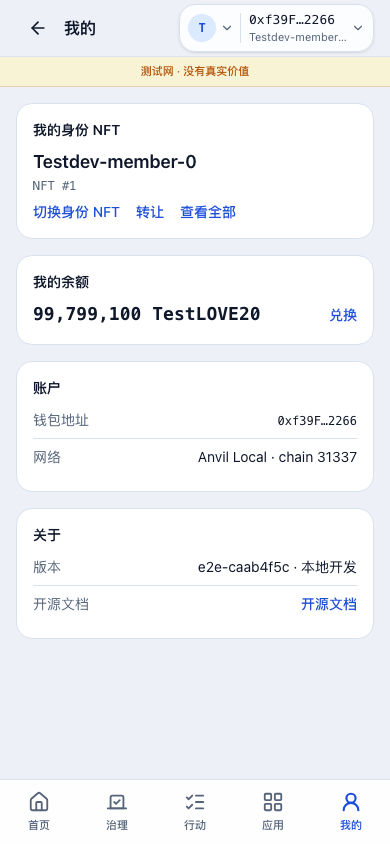
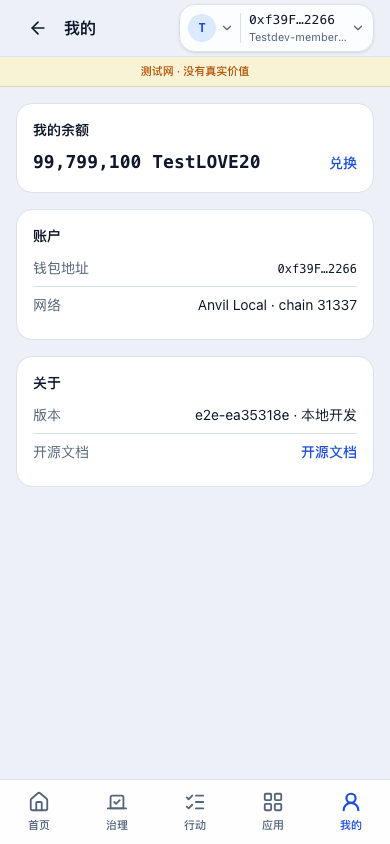
fix(me): 移除我的身份 NFT 卡片，页面只留余额/账户/关于

diff --git a/src/pages/me/me-page.tsx b/src/pages/me/me-page.tsx
@@ -8,7 +8,6 @@ import { formatBuildId, formatTokenAmount, shortenAddress } from '@/shared/lib/f
 import { variantLabel } from '@/shared/lib/variant-label';
 import { useCommunityBalance } from '@/entities/community-token/model/use-community-balance';
 import { useCommunityToken } from '@/entities/community-token/model/use-community-token';
-import { useMemberIdentity } from '@/entities/member-identity/model/use-member-identity';
 import { useWalletConnection } from '@/features/connect-wallet/model/use-wallet-connection';
 import { useCommunityContext } from '@/features/switch-community/model/use-community-context';
 
@@ -44,20 +43,19 @@ function Row({ label, children }: { readonly label: string; readonly children: R
 }
 
 /**
- * 我的 (UX spec §3.7): the page that now carries identity and balance, which
- * used to be home cards (owner 2026-11-11). It is a settings-ish list; the only
- * actions are text links, so the page never spends the one-filled-button rule.
+ * 我的 (UX spec §3.7): balance + account/about, a settings-ish list. The
+ * identity NFT card moved out (owner 2026-11-14) — `/my-nft` owns identity
+ * management; only text links remain here, so the page never spends the
+ * one-filled-button rule.
  */
 export function MePage() {
   const { search } = useLocation();
   const wallet = useWalletConnection();
-  const identity = useMemberIdentity();
   const { symbol } = useCommunityContext();
   const token = useCommunityToken(symbol);
   const balance = useCommunityBalance(token.address, token.decimals);
 
   const to = (pathname: string) => ({ pathname, search }) as const;
-  const identityName = identity.selected?.name;
   const amountText =
     balance.status === 'ready' && balance.value !== undefined
       ? `${formatTokenAmount(balance.value, balance.decimals)} ${token.symbol}`
@@ -65,77 +63,6 @@ export function MePage() {
 
   return (
     <div className="space-y-4">
-      <Section id="me-identity-title" title={copy.me.identityTitle}>
-        {identity.status === 'loading' ? (
-          <p className="mt-2 text-sm text-muted">{copy.me.identityReading}</p>
-        ) : identity.status === 'disconnected' ? (
-          <p className="mt-2 text-sm leading-6 text-muted">{copy.me.identityDisconnected}</p>
-        ) : identity.status === 'unconfigured' ? (
-          <p className="mt-2 text-sm leading-6 text-muted">{copy.me.identityUnconfigured}</p>
-        ) : identity.status === 'error' ? (
-          <p className="mt-2 flex items-center gap-3 text-sm text-muted">
-            {copy.me.identityUnavailable}
-            <button
-              type="button"
-              onClick={identity.refetch}
-              className="text-sm font-medium text-brand-strong underline-offset-4 hover:underline"
-            >
-              {copy.common.retry}
-            </button>
-          </p>
-        ) : identity.status === 'empty' ? (
-          <div className="mt-2">
-            {identity.isInvalidated ? (
-              <p className="mb-2 text-xs leading-5 text-muted">{copy.me.identityInvalidated}</p>
-            ) : null}
-            <p className="text-sm leading-6 text-muted">{copy.me.identityEmpty}</p>
-            <div className="mt-2">
-              <Link to={to('/mint')} className={TEXT_LINK}>
-                {copy.me.mintIdentity}
-              </Link>
-            </div>
-          </div>
-        ) : identity.status === 'needs-selection' || identity.selected === null ? (
-          <div className="mt-2">
-            {identity.isInvalidated ? (
-              <p className="mb-2 text-xs leading-5 text-muted">{copy.me.identityInvalidated}</p>
-            ) : null}
-            <p className="text-sm leading-6 text-muted">{copy.me.identityNeedsSelection}</p>
-            <div className="mt-2 flex flex-wrap gap-x-4 gap-y-1">
-              <Link to={to('/my-nft')} className={TEXT_LINK}>
-                {copy.me.switchIdentity}
-              </Link>
-              <Link to={to('/my-nft')} className={TEXT_LINK}>
-                {copy.me.viewAll}
-              </Link>
-            </div>
-          </div>
-        ) : (
-          <div className="mt-2">
-            {identity.isInvalidated ? (
-              <p className="mb-2 text-xs leading-5 text-muted">{copy.me.identityInvalidated}</p>
-            ) : null}
-            <p className="truncate text-lg font-semibold text-foreground">
-              {identityName ?? copy.common.unknown}
-            </p>
-            <p className="mt-0.5 font-mono text-xs text-muted">
-              {copy.identity.memberId(identity.selected.tokenId.toString())}
-            </p>
-            <div className="mt-2 flex flex-wrap gap-x-4 gap-y-1">
-              <Link to={to('/my-nft')} className={TEXT_LINK}>
-                {copy.me.switchIdentity}
-              </Link>
-              <Link to={to('/my-nft')} className={TEXT_LINK}>
-                {copy.me.transfer}
-              </Link>
-              <Link to={to('/my-nft')} className={TEXT_LINK}>
-                {copy.me.viewAll}
-              </Link>
-            </div>
-          </div>
-        )}
-      </Section>
-
       <Section id="me-balance-title" title={copy.me.balanceTitle}>
         {token.address === undefined ? (
           <p className="mt-2 text-sm leading-6 text-muted">{copy.me.balanceUnavailable}</p>

diff --git a/src/pages/me/me-page.test.tsx b/src/pages/me/me-page.test.tsx
@@ -4,18 +4,12 @@ import { beforeEach, describe, expect, it, vi } from 'vitest';
 import { MePage } from '@/pages/me/me-page';
 import { useCommunityBalance } from '@/entities/community-token/model/use-community-balance';
 import { useCommunityToken } from '@/entities/community-token/model/use-community-token';
-import { useMemberIdentity } from '@/entities/member-identity/model/use-member-identity';
 import { useWalletConnection } from '@/features/connect-wallet/model/use-wallet-connection';
-import type { MemberIdentityState } from '@/entities/member-identity/model/use-member-identity';
 import type { CommunityToken } from '@/entities/community-token/model/use-community-token';
 import type { TokenBalance } from '@/entities/community-token/model/use-community-balance';
 
 vi.mock('@/features/switch-community/model/use-community-context', () => ({
   useCommunityContext: () => ({ symbol: 'TestLOVE20', fromUrl: true, switchSymbol: vi.fn() }),
-}));
-
-vi.mock('@/entities/member-identity/model/use-member-identity', () => ({
-  useMemberIdentity: vi.fn(),
 }));
 
 vi.mock('@/entities/community-token/model/use-community-token', () => ({
@@ -30,7 +24,6 @@ vi.mock('@/features/connect-wallet/model/use-wallet-connection', () => ({
   useWalletConnection: vi.fn(),
 }));
 
-const memberIdentity = vi.mocked(useMemberIdentity);
 const communityToken = vi.mocked(useCommunityToken);
 const communityBalance = vi.mocked(useCommunityBalance);
 const wallet = vi.mocked(useWalletConnection);
@@ -52,22 +45,6 @@ const BALANCE: TokenBalance = {
   decimals: 18,
 };
 
-function identity(overrides: Partial<MemberIdentityState> = {}): MemberIdentityState {
-  return {
-    status: 'ready',
-    identities: [{ tokenId: 1n, name: 'Testdev-member-0' }],
-    balance: 1n,
-    selected: { tokenId: 1n, name: 'Testdev-member-0' },
-    isInvalidated: false,
-    isTruncated: false,
-    memberNftAddress: TOKEN.address,
-    select: vi.fn(),
-    clear: vi.fn(),
-    refetch: vi.fn(),
-    ...overrides,
-  };
-}
-
 function renderPage(): void {
   render(
     <MemoryRouter initialEntries={['/me?symbol=TestLOVE20']}>
@@ -77,7 +54,6 @@ function renderPage(): void {
 }
 
 beforeEach(() => {
-  memberIdentity.mockReturnValue(identity());
   communityToken.mockReturnValue(TOKEN);
   communityBalance.mockReturnValue(BALANCE);
   wallet.mockReturnValue({
@@ -95,18 +71,15 @@ beforeEach(() => {
 });
 
 describe('MePage', () => {
-  it('carries the current identity with name, memberId and the three links', () => {
+  it('no longer renders the identity NFT card (owner 2026-11-14)', () => {
     renderPage();
 
-    expect(screen.getByRole('heading', { name: '我的身份 NFT' })).toBeVisible();
-    expect(screen.getByText('Testdev-member-0')).toBeVisible();
-    expect(screen.getByText('NFT #1')).toBeVisible();
-    for (const name of ['切换身份 NFT', '转让', '查看全部']) {
-      expect(screen.getByRole('link', { name })).toHaveAttribute(
-        'href',
-        '/my-nft?symbol=TestLOVE20',
-      );
-    }
+    expect(screen.queryByRole('heading', { name: '我的身份 NFT' })).toBeNull();
+    expect(document.querySelector('section[aria-labelledby="me-identity-title"]')).toBeNull();
+    expect(screen.queryByRole('link', { name: '切换身份 NFT' })).toBeNull();
+    expect(screen.queryByRole('link', { name: '转让' })).toBeNull();
+    expect(screen.queryByRole('link', { name: '查看全部' })).toBeNull();
+    expect(screen.queryByRole('link', { name: '铸造身份 NFT' })).toBeNull();
   });
 
   it('carries the current community balance and an inline 兑换 link with ?symbol=', () => {
@@ -120,15 +93,14 @@ describe('MePage', () => {
     );
   });
 
-  it('offers 铸造身份 NFT when the wallet has no identity NFT', () => {
-    memberIdentity.mockReturnValue(identity({ status: 'empty', identities: [], selected: null }));
+  it('keeps the 账户 and 关于 sections after the identity card removal', () => {
     renderPage();
 
-    expect(screen.getByText('你还没有身份 NFT')).toBeVisible();
-    expect(screen.getByRole('link', { name: '铸造身份 NFT' })).toHaveAttribute(
-      'href',
-      '/mint?symbol=TestLOVE20',
-    );
+    expect(screen.getByRole('heading', { name: '账户' })).toBeVisible();
+    expect(screen.getByText('钱包地址')).toBeVisible();
+    expect(screen.getByText(/^0x1234…5678$/)).toBeVisible();
+    expect(screen.getByRole('heading', { name: '关于' })).toBeVisible();
+    expect(screen.getByRole('link', { name: '开源文档' })).toBeVisible();
   });
 
   it('shows an honest unavailable line when the community token is not configured', () => {

diff --git a/e2e/home-reminders.spec.ts b/e2e/home-reminders.spec.ts
@@ -163,29 +163,28 @@ test.describe('首页提醒流', () => {
 });
 
 test.describe('我的', () => {
-  test('carries identity and balance as a settings-ish list', async ({ page }) => {
+  test('carries balance + account/about, without the identity NFT card', async ({ page }) => {
     await installWallet(page, ACCOUNTS.withIdentity);
     await seedIdentity(page, ACCOUNTS.withIdentity, '1');
     await page.goto('/me?symbol=TestLOVE20');
     await connect(page);
 
-    const identityBlock = page.locator('section[aria-labelledby="me-identity-title"]');
-    await expect(identityBlock).toBeVisible({ timeout: 15_000 });
-    await expect(identityBlock.getByText(SEEDED_NAME)).toBeVisible();
-    await expect(identityBlock.getByText('NFT #1')).toBeVisible();
-    for (const name of ['切换身份 NFT', '转让', '查看全部']) {
-      await expect(page.getByRole('link', { name })).toHaveAttribute(
-        'href',
-        '/my-nft?symbol=TestLOVE20',
-      );
-    }
+    // Owner 2026-11-14: the identity NFT card is gone; /my-nft owns it.
+    await expect(page.getByRole('heading', { name: '我的余额' })).toBeVisible({ timeout: 15_000 });
+    await expect(page.getByRole('heading', { name: '我的身份 NFT' })).toHaveCount(0);
+    await expect(page.locator('section[aria-labelledby="me-identity-title"]')).toHaveCount(0);
+    await expect(page.getByRole('link', { name: '切换身份 NFT' })).toHaveCount(0);
+    await expect(page.getByRole('link', { name: '转让' })).toHaveCount(0);
+    await expect(page.getByRole('link', { name: '查看全部' })).toHaveCount(0);
+    await expect(page.getByRole('link', { name: '铸造身份 NFT' })).toHaveCount(0);
 
-    await expect(page.getByRole('heading', { name: '我的余额' })).toBeVisible();
     await expect(page.getByText('99,799,100 TestLOVE20')).toBeVisible();
     await expect(page.getByRole('link', { name: '兑换' })).toHaveAttribute(
       'href',
       '/swap?symbol=TestLOVE20',
     );
+    await expect(page.getByRole('heading', { name: '账户' })).toBeVisible();
+    await expect(page.getByRole('heading', { name: '关于' })).toBeVisible();
 
     // Settings-ish: no filled action on the page.
     expect(await countSolidButtons(page)).toBe(0);
@@ -193,15 +192,16 @@ test.describe('我的', () => {
     await shot(page, 'me-profile.png');
   });
 
-  test('falls back to 铸造身份 NFT when the wallet has no identity NFT', async ({ page }) => {
+  test('a wallet without an identity NFT still sees only balance + account/about', async ({
+    page,
+  }) => {
     await installWallet(page, ACCOUNTS.outsider);
     await page.goto('/me?symbol=TestLOVE20');
     await connect(page);
 
-    await expect(page.getByText('你还没有身份 NFT')).toBeVisible({ timeout: 15_000 });
-    await expect(page.getByRole('link', { name: '铸造身份 NFT' })).toHaveAttribute(
-      'href',
-      '/mint?symbol=TestLOVE20',
-    );
+    await expect(page.getByRole('heading', { name: '我的余额' })).toBeVisible({ timeout: 15_000 });
+    await expect(page.getByText('你还没有身份 NFT')).toHaveCount(0);
+    await expect(page.getByRole('link', { name: '铸造身份 NFT' })).toHaveCount(0);
+    await expect(page.getByRole('heading', { name: '账户' })).toBeVisible();
   });
 });

diff --git a/ledger/worklog/202611/14-0136-ec3f-我的-移除身份-nft-卡片.md b/ledger/worklog/202611/14-0136-ec3f-我的-移除身份-nft-卡片.md
@@ -1,7 +1,7 @@
 # 20261114-0136-ec3f-我的-移除身份-nft-卡片: 我的·移除身份 NFT 卡片
 
 - **Tags**: 我的, 卡片
-- **Status**: open · 2026-11-14 01:36:24
+- **Status**: doing · 2026-11-14 02:51:25 · @tester · 47d39b07-9d74-4077-8a12-8ab9280ea25d
 - **Created**: 2026-11-14 01:36:24 · @tester · 47d39b07-9d74-4077-8a12-8ab9280ea25d
 
 <!-- Header lines are maintained by the script, fixed order: Tags → Status → Created → Sealed.
@@ -38,14 +38,34 @@ owner 原话：「移除我的身份这个卡片」。
 
 ## Process
 
-<!-- Pitfalls and evidence: with revision + file:line or symbol names -->
+- **卡片边界**（改前 `src/pages/me/me-page.tsx:68-137`）：`Section id="me-identity-title"` = 身份 NFT 名 + `NFT #{memberId}` + 「切换身份 NFT / 转让 / 查看全部」，以及读取中/未连接/未配置/读不到/空/未选择/失效 7 个分支；只有它用 `useMemberIdentity()`、`copy.identity.memberId` 和 `copy.me` 的 12 个身份键。`/my-nft` + `/mint` 完整承担身份管理，故整块删除。
+- **页面**（`src/pages/me/me-page.tsx`）：删掉身份 Section 与其独占的 `useMemberIdentity` 导入/调用、`identityName` 中间量；页面只剩「我的余额 → 账户 → 关于」三张卡，区块容器仍是 `space-y-4` + 每卡自带 `border-line/bg-surface`，删卡后没有空区块、没有悬空分隔线（`divide-y` 只在每张卡内部）。
[1 lines of base64/hex data omitted]
+- **单测**（`src/pages/me/me-page.test.tsx`）：去掉 `useMemberIdentity` mock 与身份断言；新增「不再渲染身份 NFT 卡片」（标题/section/4 个身份链接均为 0）与「账户/关于仍在」；余额/未配置/无实心按钮用例保留 → 5 passed。
+- **e2e**（`e2e/home-reminders.spec.ts` 的 `我的` describe 2 条）：改写为「有身份/无身份钱包都只有余额 + 账户/关于」，断言 `我的身份 NFT` 标题、`me-identity-title` section、「切换/转让/查看全部/铸造」链接 count 为 0，无实心按钮；`me-profile.png` 由该用例重拍。
+- **docs**（`docs/product/m0-ux-spec.md`）：§3.7 重写为「余额 → 账户 → 关于」，明确 2026-11-14 移除身份卡、不留空区块/悬空分隔线；同步 §0 页面表（可用（余额 + 账户））、§3.1 首页定位/问候、§3.2 我的 NFT 进入条件（不再从「我的」身份块进）、§3.6 占位页说明、§6 验收第 2 步（不再要求「我的」页显示铸造入口）。
+- **`/apps` 身份 NFT 目录条目**：未动（`src/domain/apps-catalog.ts` `id: 'myNft'` 保持），截图/校验确认 `/apps` 条目仍在。
+- **移动/桌面、浅色/深色**：390×844 与 1280×800 × light/dark 四张验收图逐张看过（临时 spec 输出到 `/tmp/me-shots/me-{light,dark}-{mobile,desktop}.png`，未入库）：三张卡层次正常、无空区块、无悬空分隔线；深色下金额/次要文字与卡片边界可读。
+- **环境**：全程未碰 8545；`make -C ../anvil bootstrap PORT=8575` 起验证链，结束后 `make -C ../anvil stop PORT=8575`；build/e2e 走 `/tmp/love20-build-e2e.lock`（本轮两次都拿到，结束已释放）。临时文件 `e2e/zz-me-variants.spec.ts`、`playwright.me.config.ts` 用完已删。
+
+**门禁真实输出（2026-11-14 11:12-11:17）**
+- `pnpm typecheck` → exit 0（`node scripts/gen-build-id.mjs && tsc --noEmit -p tsconfig.json && tsc --noEmit -p tsconfig.node.json`，`[build-id] mwftxd2r-5df048c6`）
+- `pnpm lint` → exit 0（`eslint . --max-warnings=0`，无输出）
+- `pnpm test` → exit 0，`Test Files 78 passed (78)` / `Tests 505 passed (505)`
+- `VITE_ENV=dev pnpm build` → exit 0，`✓ built in 7.39s`，first-screen `160.1 kB / budget target ≤ 161 kB (dev 160+1 allowance) / hard 200 kB`，wallet SDK injected-only
+- e2e（`E2E_PORT=4184 E2E_ANVIL_RPC=http://127.0.0.1:8575 pnpm e2e --grep "我的"`）→ exit 0，`5 passed (57.9s)`，其中 `home-reminders.spec.ts` 的「我的」2/2 通过（另 3 条是 grep 顺带命中的 liquidity「我的份额」用例，同样 passed）；preview 复用 build id `e2e-ea35318e41-a61000df05`（与本次源码指纹一致）
 
 ## Conclusion
 
-<!-- What got done, what got left behind -->
+- 完成：`/me` 的「我的身份 NFT」卡片整块移除，连带只属于它的 copy 键、hook 引用、单测/e2e 断言；页面重排为「我的余额 → 账户 → 关于」，无空区块、无悬空分隔线，移动端/桌面端/浅色/深色四态目视通过；`/apps` 的「身份 NFT」目录条目保留；截图 `docs/product/screenshots/me-profile.png` 已重拍；ux-spec §3.7 与相关交叉引用已同步。
+- 遗留风险：
+  1. `src/shared/config/copy-pages.ts` 与 `docs/product/m0-ux-spec.md` 是多个并行任务共用的文件，本轮只做定点 edit；我的 hunk 仍在工作树里（这两个文件同时带着 transfer/batch/approve 等任务未提交的 hunk），不在本任务 commit 里，**需要由后续提交这两个文件的任务或 Lead 的整合提交一并带上**（提交前 `git diff` 确认 me 块与 §3.7 内容仍在）。
+  2. `me-profile.png` 的版本行是 e2e 构建 id（`e2e-ea35318e…`，非发布版），与旧图同一性质；最终整合 e2e 重跑会再覆盖一次，属预期。
+  3. 未在 8545 人工链上手测（按要求）；e2e 只在 8575 独立链上验证。
 
 ## Execution Log
 
 <!-- Maintained by the script: appended by new / claim / set / release / log / close. Do not edit.
      Backfill with: progress log --id 20261114-0136-ec3f-我的-移除身份-nft-卡片 --note "...". -->
 - 2026-11-14 01:36:24 · new · @tester · 47d39b07-9d74-4077-8a12-8ab9280ea25d · created
+- 2026-11-14 02:51:25 · claim · @tester · 47d39b07-9d74-4077-8a12-8ab9280ea25d · claimed → doing
